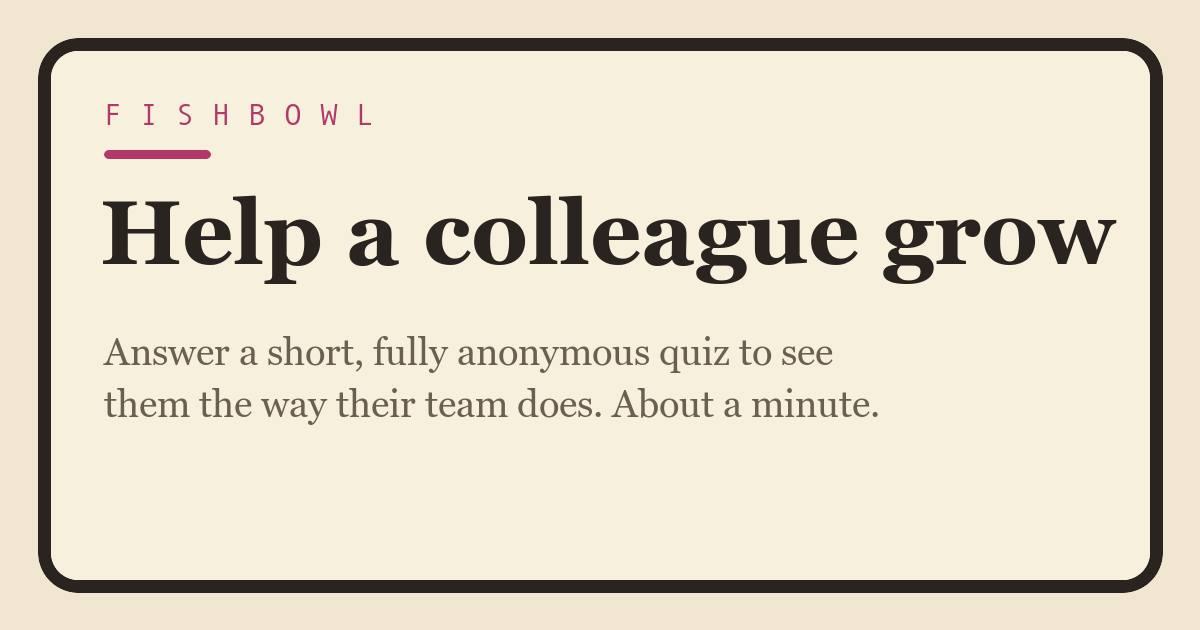
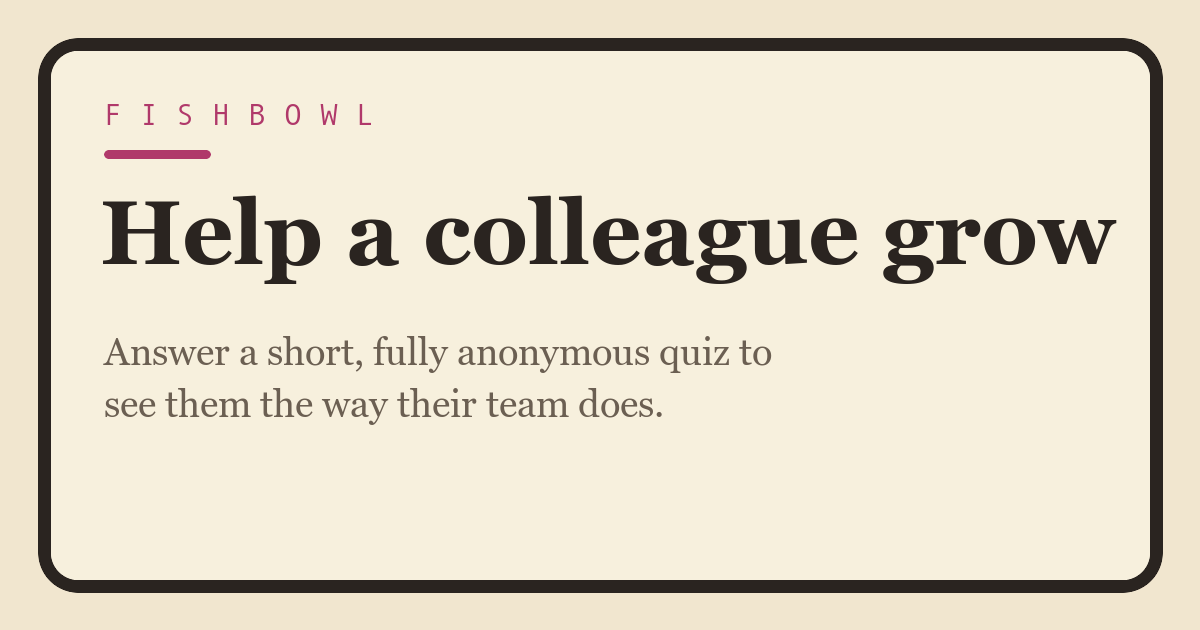
Fishbowl share preview: drop the "About a minute" time claim
Remove it from the OG image and the og/twitter description so the shared card
no longer promises a duration.

Changed region(s): [[0.0617, 0.6032, 0.74, 0.6635], [0.6475, 0.5429, 0.7092, 0.6032]]

diff --git a/apps/fishbowl/index.html b/apps/fishbowl/index.html
@@ -15,14 +15,14 @@
     <meta property="og:site_name" content="Fishbowl" />
     <meta property="og:url" content="https://productnerd.github.io/fishbowl/" />
     <meta property="og:title" content="Help a colleague grow" />
-    <meta property="og:description" content="A teammate wants your honest, anonymous read. A few quick questions, about a minute, and it helps them see themselves the way their team does." />
+    <meta property="og:description" content="A teammate wants your honest, anonymous read. Answer a few quick questions and help them see themselves the way their team does." />
     <meta property="og:image" content="https://productnerd.github.io/fishbowl/og.png" />
     <meta property="og:image:width" content="1200" />
     <meta property="og:image:height" content="630" />
     <meta property="og:image:alt" content="Fishbowl: help a colleague grow. Answer a short, anonymous quiz." />
     <meta name="twitter:card" content="summary_large_image" />
     <meta name="twitter:title" content="Help a colleague grow" />
-    <meta name="twitter:description" content="A teammate wants your honest, anonymous read. A few quick questions, about a minute, and it helps them see themselves the way their team does." />
+    <meta name="twitter:description" content="A teammate wants your honest, anonymous read. Answer a few quick questions and help them see themselves the way their team does." />
     <meta name="twitter:image" content="https://productnerd.github.io/fishbowl/og.png" />
 
     <link rel="preconnect" href="https://fonts.googleapis.com" />
